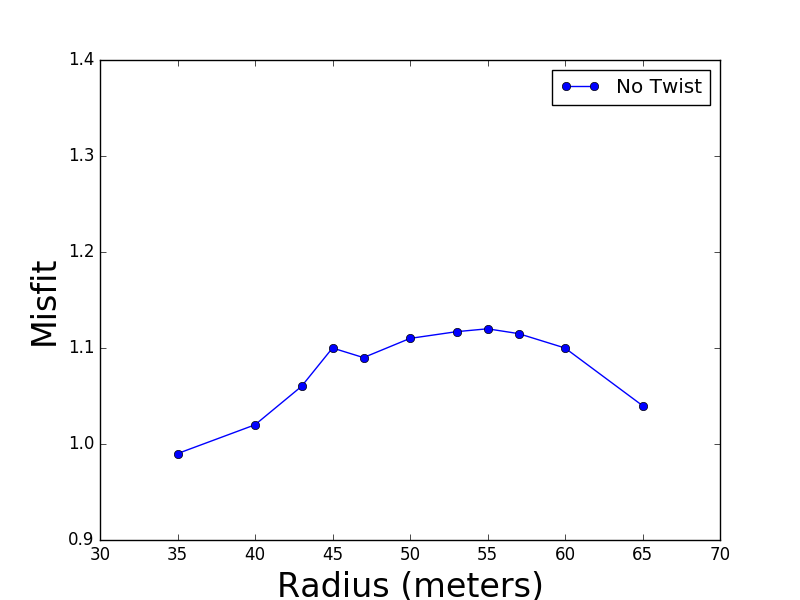
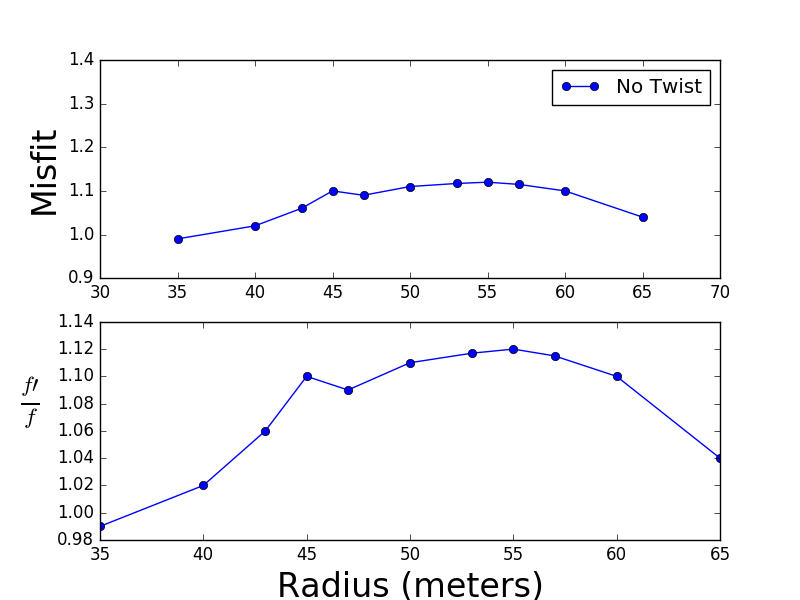
updating anneal with better axes

diff --git a/disputatio/routines/annealing/anneal.py b/disputatio/routines/annealing/anneal.py
@@ -19,8 +19,9 @@ it = [35,40,43,45,47,50,53,55,57,60,65]
 import matplotlib.pyplot as plt
 fsz=24
 
-plt.subplot(1, 1, 1)
-fig,ax = plt.subplots()
+plt.figure(1)
+plt.subplot(211)
+#fig,ax = plt.subplots()
 plt.plot(it,flux, 'ko-', color='blue',label='No Twist')
 
 #plt.axvline(x=55,linewidth=2, color = 'blue')
@@ -29,10 +30,18 @@ plt.plot(it,flux, 'ko-', color='blue',label='No Twist')
 plt.xlim(30, 70)
 plt.ylim(0.9, 1.4)
 plt.ylabel(r'Misfit',fontsize=fsz)
-plt.xlabel(r'Radius (meters)',fontsize=fsz)
 #ax.set_yscale('log')
 plt.legend()
 #ax.xaxis.set_major_formatter(plt.NullFormatter())
+
+
+#
+# figure two
+#
+plt.subplot(212)
+plt.plot(it,flux, 'ko-', color='blue',label='No Twist')
+plt.ylabel(r'$\frac{f\prime}{f}$',fontsize=fsz,rotation=0,labelpad=20)
+plt.xlabel(r'Radius (meters)',fontsize=fsz)
 
 #
 # save figure
